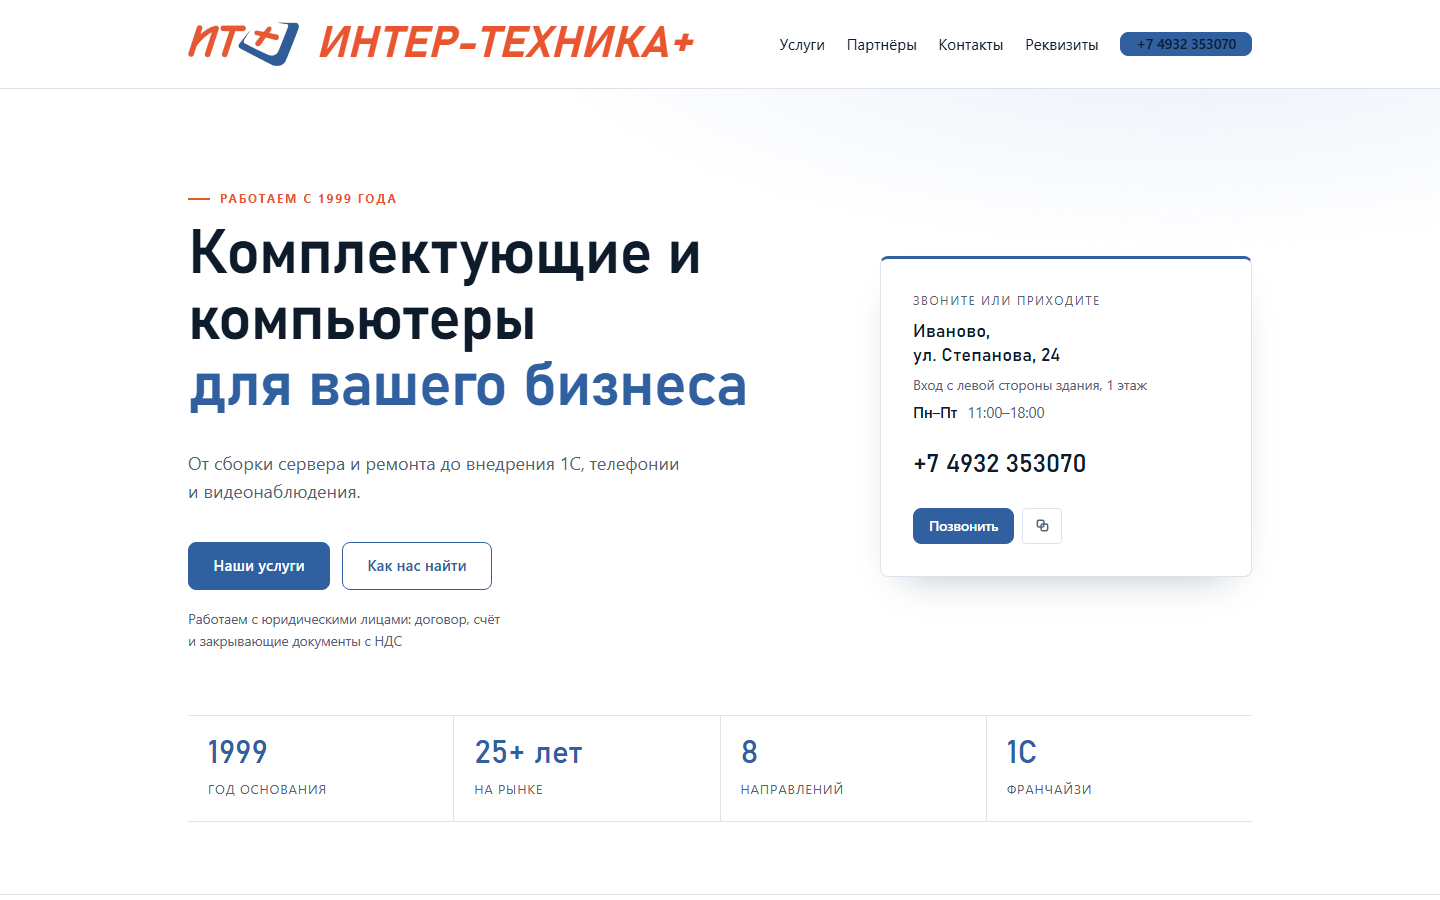
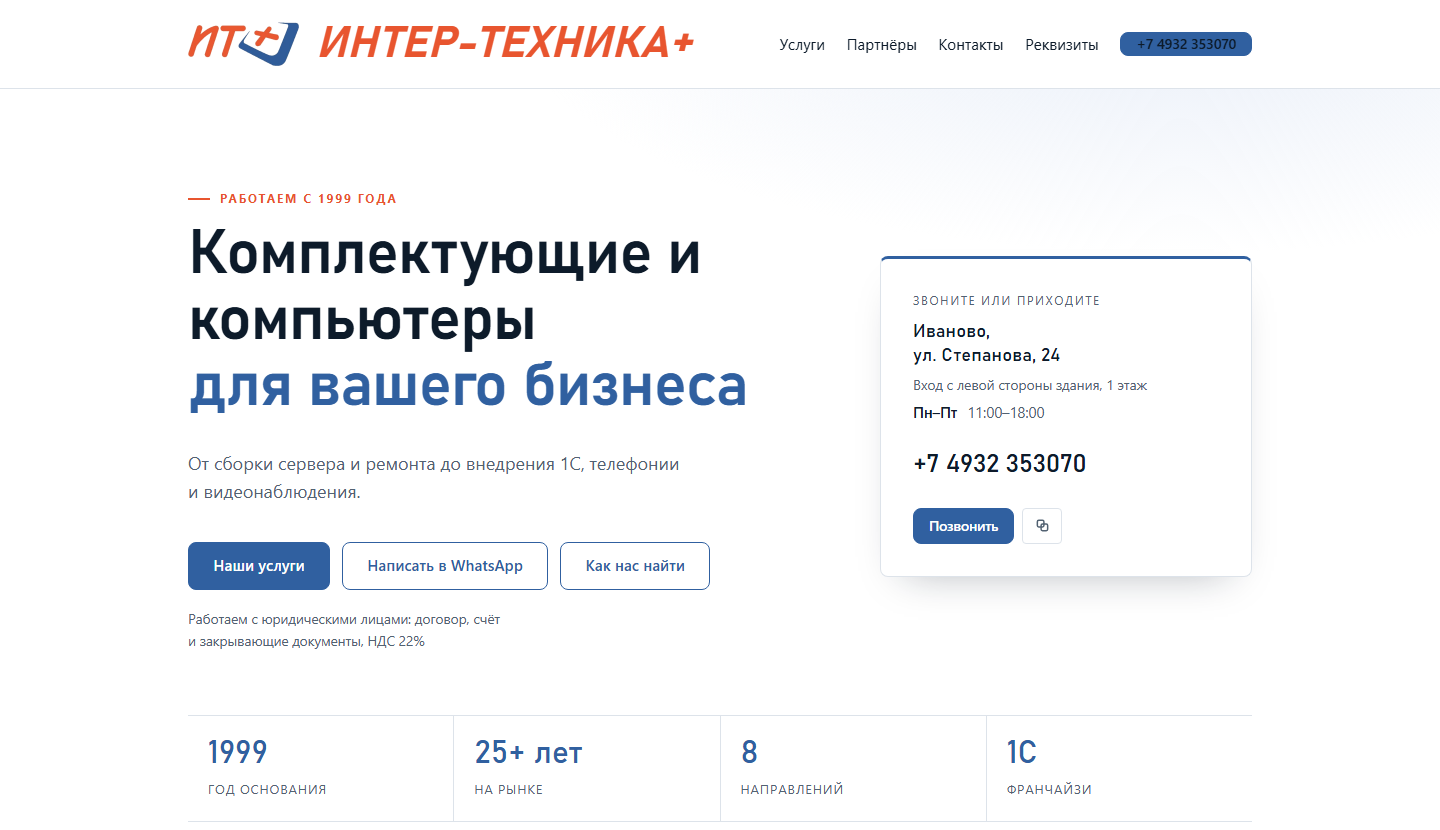
Кнопка «Написать в WhatsApp» без номера в разметке: переход через wa.html

diff --git a/index.html b/index.html
@@ -109,6 +109,7 @@
             </p>
             <div class="hero-actions">
               <a class="btn" href="#services">Наши услуги</a>
+              <a class="btn btn--ghost" href="wa.html" target="_blank" rel="noopener">Написать в WhatsApp</a>
               <a class="btn btn--ghost" href="#contacts">Как нас найти</a>
             </div>
             <p class="hero-note">Работаем с юридическими лицами: договор, счёт и закрывающие документы, НДС 22%</p>
@@ -303,6 +304,12 @@
               </dd>
             </div>
             <div>
+              <dt>Написать</dt>
+              <dd><a href="wa.html" target="_blank" rel="noopener">WhatsApp</a><br>
+                <span class="muted">ответим в рабочее время</span>
+              </dd>
+            </div>
+            <div>
               <dt>Документы</dt>
               <dd><a href="requisites.html">Реквизиты компании</a><br>
                 <span class="muted">для юрлиц: договор, счёт, акты, НДС 22%</span>
@@ -344,7 +351,7 @@
 
   <div class="mobile-bar">
     <a class="btn" href="tel:+74932353070">Позвонить</a>
-    <a class="btn btn--ghost" href="#services">Услуги</a>
+    <a class="btn btn--ghost" href="wa.html" target="_blank" rel="noopener">Написать</a>
   </div>
 
   <script src="assets/app.js?v=20261130" defer></script>

diff --git a/wa.html b/wa.html
@@ -1,0 +1,44 @@
+<!doctype html>
+<html lang="ru">
+<head>
+  <meta charset="utf-8">
+  <meta name="viewport" content="width=device-width, initial-scale=1">
+  <meta name="robots" content="noindex, nofollow">
+  <title>Открываем WhatsApp… — Интер-Техника-Плюс</title>
+  <style>
+    body {
+      margin: 0;
+      min-height: 100vh;
+      display: grid;
+      place-items: center;
+      background: #f4f6fa;
+      color: #0d1b2a;
+      font: 16px/1.5 "Segoe UI", system-ui, sans-serif;
+      text-align: center;
+      padding: 24px;
+    }
+    a { color: #3060a0; }
+  </style>
+</head>
+<body>
+  <div>
+    <p>Открываем WhatsApp…</p>
+    <p><a id="go" href="#">Нажмите, если не открылось автоматически</a></p>
+  </div>
+
+  <script>
+    (function () {
+      "use strict";
+      // Номер хранится в кодированном виде: в исходнике страницы его нет
+      var digits = atob("NzkwMjMxNjIyMjg=");
+      var url = "https://wa.me/" + digits;
+
+      var link = document.getElementById("go");
+      link.href = url;
+
+      // Переходим сразу; если браузер заблокирует — останется ссылка
+      window.location.replace(url);
+    })();
+  </script>
+</body>
+</html>
